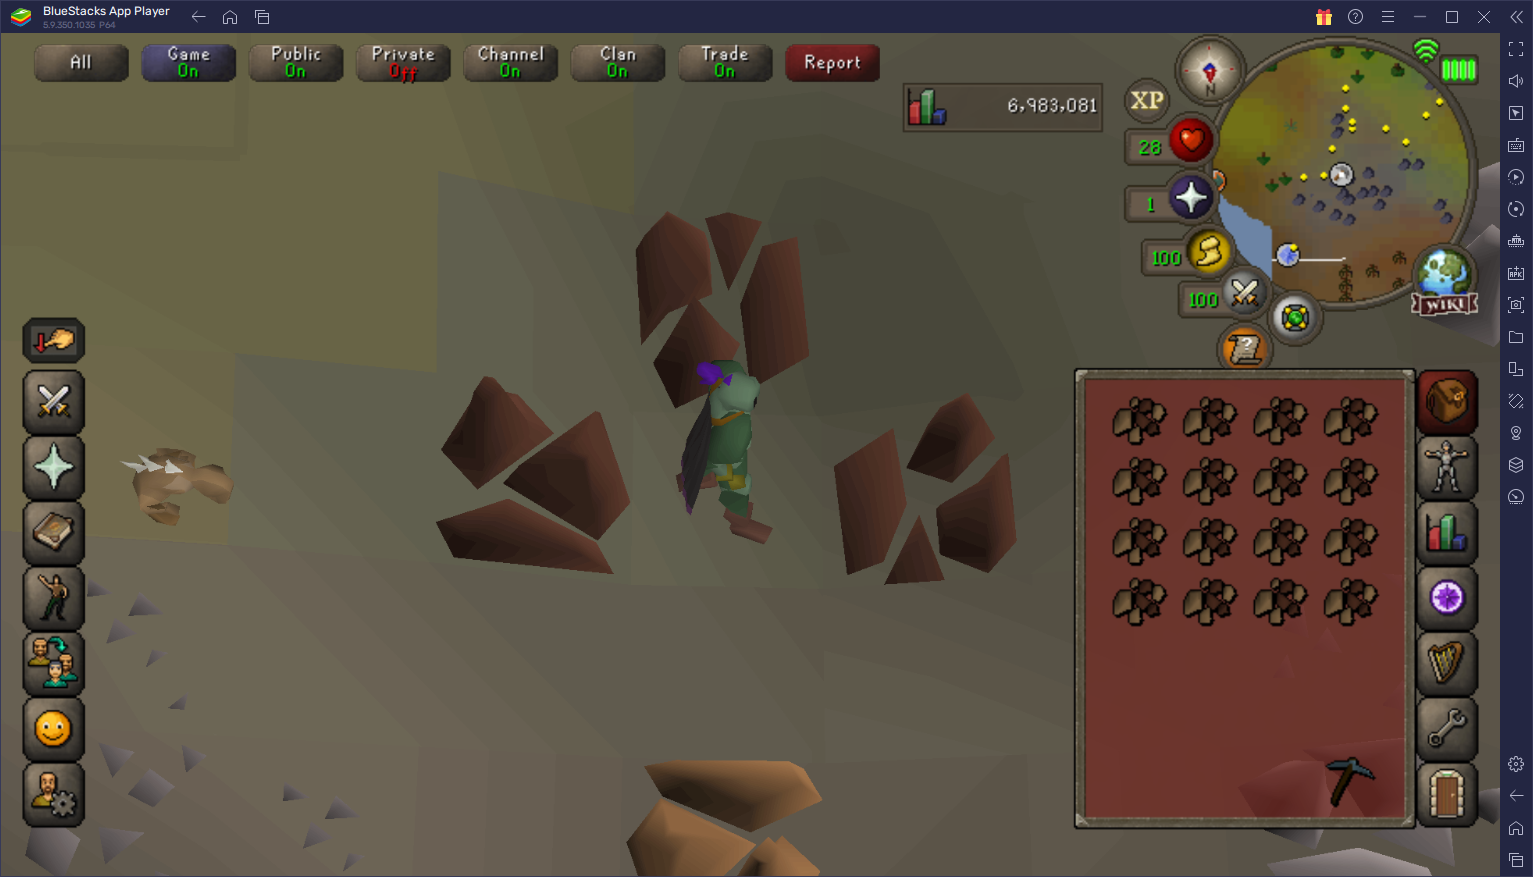
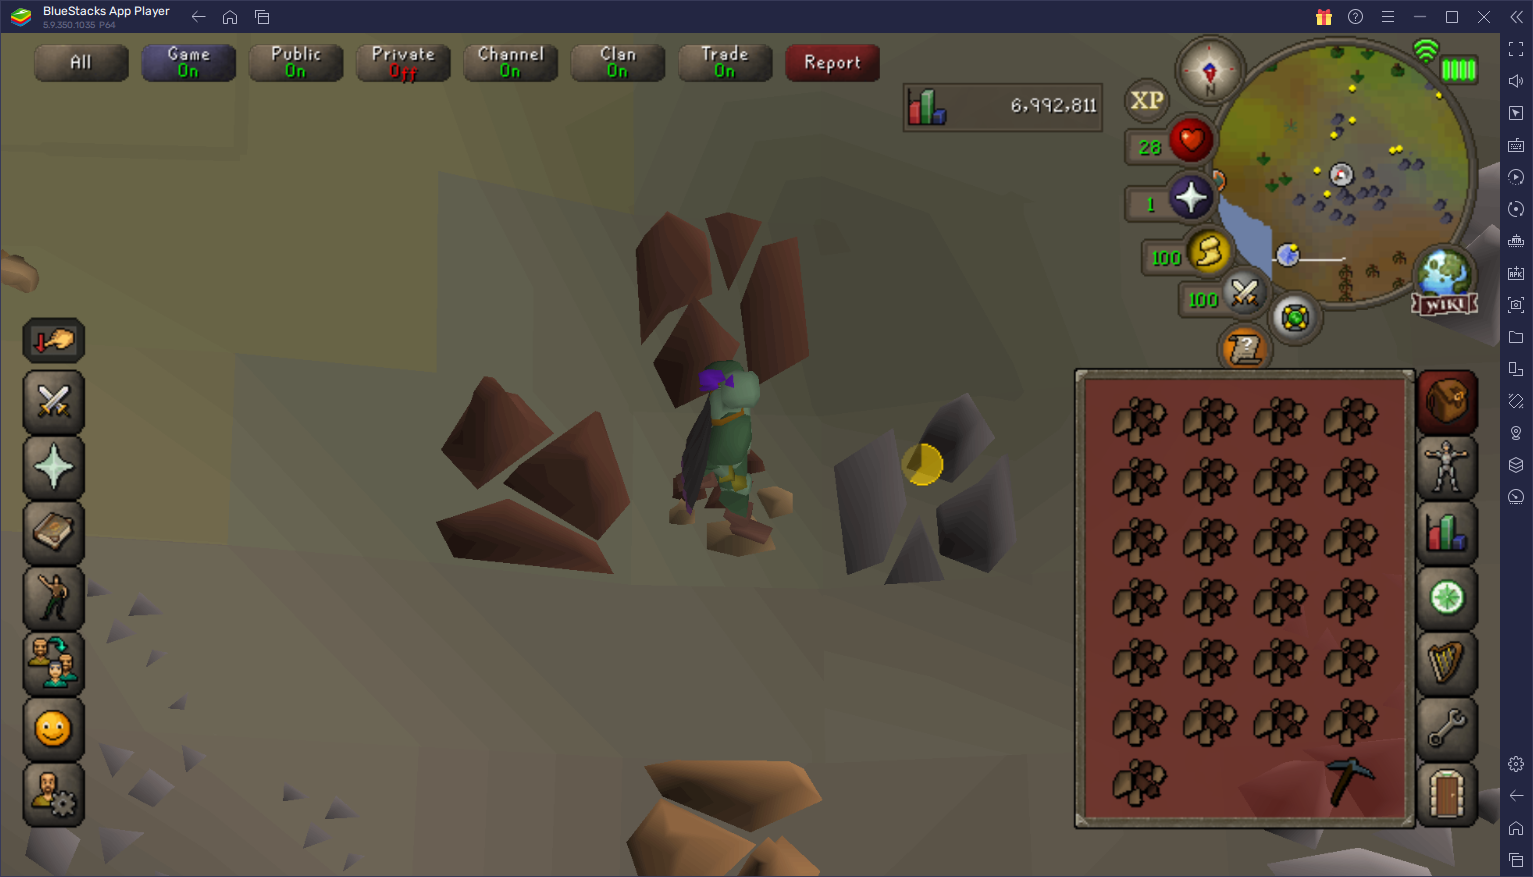
Refined Pisc_Iron script

diff --git a/Scripts/Skilling/Mining/Iron/Pisc_Iron.py b/Scripts/Skilling/Mining/Iron/Pisc_Iron.py
@@ -6,6 +6,7 @@ from API.Interface.General import is_otd_enabled, setup_interface
 from API.AntiBan import sleep_between
 from API.Mouse import mouse_click
 from API.Imaging.Image import does_img_exist
+from API.Interface.General import drop_inventory
 
 from API.Debug import write_debug
 
@@ -20,27 +21,22 @@ def mine_iron_pisc(curr_loop):
     global ore_sel
     global no_ore_found
 
-    ore_x = [525, 717, 890]
-    ore_y = [450, 306, 484]
-
     if curr_loop == 1:
         is_otd_enabled(should_enable=True)
         setup_interface("south", 5, "up")
         API.AntiBan.sleep_between(0.8, 1.4)
 
+    handle_full_inventory()
+
     if does_img_exist("Spot_check", script_name="Pisc_Iron", threshold=0.90):
         print(f'Ores clicked: {ores_clicked}')
+
         # On the first loop, randomly select an ore (of the three)
         if ores_clicked == 0:
-            ore_sel = random.randint(0, 2)
-
-        write_debug(f'Ore_sel = {ore_sel}\nsel_ore_xy = {ore_x[ore_sel]}, {ore_y[ore_sel]}')
+            ore_sel = random.randint(1, 3)
 
         if not does_img_exist(img_name=f"Iron_{ore_sel}", script_name="Pisc_Iron", threshold=0.90, should_click=True, x_offset=15, y_offset=15):
             no_ore_found += 1
-
-        if no_ore_found > 10:
-            return API.AntiBan.shutdown("Pisc_Iron", "Couldn't find ore more than 10 times.")
 
         ore_sel += 1
         ores_clicked += 1
@@ -48,8 +44,8 @@ def mine_iron_pisc(curr_loop):
         write_debug(f'Ores Clicked post-increment: {ores_clicked}\nOre # selected post-increment: {ore_sel}')
 
         # If ore_sel is now 4 though, we need to start back at 1 since there are only 3 ores
-        if ore_sel == 3:
-            ore_sel = 0
+        if ore_sel == 4:
+            ore_sel = 1
             write_debug(f'Since ore_sel == 4, resetting to 1 ({ore_sel})')
 
     if not does_img_exist("Spot_check", script_name="Pisc_Iron", threshold=0.90):
@@ -57,3 +53,8 @@ def mine_iron_pisc(curr_loop):
 
     return True
 
+
+def handle_full_inventory():
+    if does_img_exist(img_name="inventory_full", category="General", threshold=0.85):
+        drop_inventory(from_spot_num=1, to_spot_num=27)
+    return

diff --git a/Test.py b/Test.py
@@ -34,10 +34,10 @@ clear_debug_log()
 
 # random_human_actions(max_downtime_seconds=12)
 # show_main_gui()
-# launch_script("cow_killer")
+launch_script("pisc_iron")
 
 
-does_img_exist(img_name="spot_check_2", script_name="Pisc_Iron", threshold=0.95)
+# does_img_exist(img_name="spot_check_2", script_name="Pisc_Iron", threshold=0.95)
 
 # for i in range(1, 4):
 #     does_img_exist(img_name=f"iron_{i}", script_name="Pisc_Iron", threshold=0.90, should_click=True)

diff --git a/GUI/Imports/Script_Launch.py b/GUI/Imports/Script_Launch.py
@@ -70,7 +70,7 @@ def launch_script(script_name="pisc_iron"):
             # 1 / x
             antiban_likelihood = 50
             # Interval between scrip loops
-            antiban_downtime_sec = 0.5
+            antiban_downtime_sec = 1
         case "edge_gold":
             selected_script = ScriptEnum.EDGE_GOLD.value
             antiban_likelihood = 10
